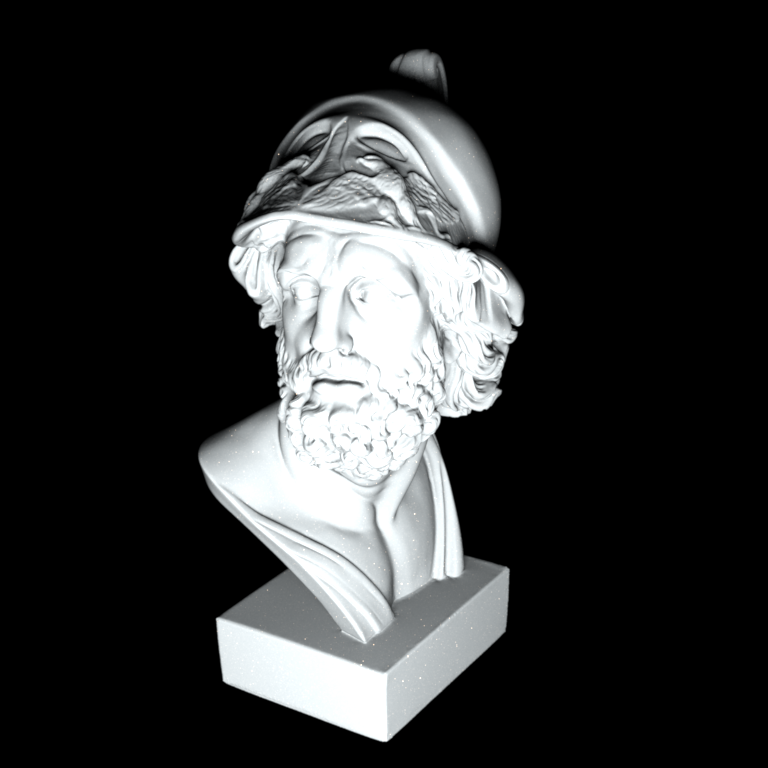
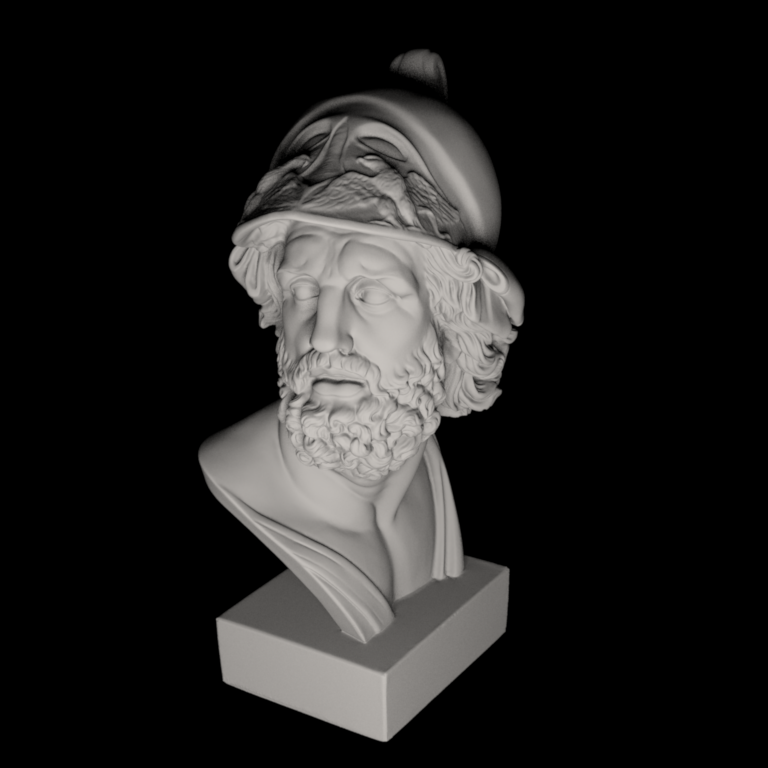
Completed point sampling scheme for sss with exponential decay. Missing Sr sampling instead of exp decay

Changed region(s): [[0.25, 0.0625, 0.6875, 0.9688]]

diff --git a/src/subsurface.cpp b/src/subsurface.cpp
@@ -117,37 +117,61 @@ public:
     {
         Color3f sigmaT = sigmaA + sigmaS;
 
+        // Select random frame
+        Vector3f vx, vy, vz;
+        float rnd = sampler->next1D();
+        if (rnd < 0.5f) 
+        {
+            vx = bRec.fri.s;
+            vy = bRec.fri.t;
+            vz = bRec.fri.n;
+            rnd *= 2; // Adjust random sample
+        } 
+        else if (rnd < 0.75f) 
+        {
+            vx = bRec.fri.t;
+            vy = bRec.fri.n;
+            vz = bRec.fri.s;
+            rnd = (rnd - 0.5f) * 4; // Adjust random sample
+        } 
+        else 
+        {
+            vx = bRec.fri.n;
+            vy = bRec.fri.s;
+            vz = bRec.fri.t;
+            rnd = (rnd - 0.75f) * 4; // Adjust random sample
+        }
+
         // Select random channel
-        int channel =  sampler->next1D() * 3;
+        int channel =  rnd * 3;
         float sigma = sigmaT[channel];
-        float channelPdf = 1.0f / 3.0f;
+        rnd = rnd * 3.0f - channel; // Adjust random sample
 
         // Select sphere radius
-        float rMax = Warp::squareToSrDecay(sampler->next1D(), sigma);
-        float rMin = 1.0f/sigma;
+        float rMax = Warp::squareToSrDecay(0.999f, sigma);
         float r = Warp::squareToSrDecay(sampler->next1D(), sigma);
 
+        if (r > rMax)
+            return false;
+
         // Clamp to account for highly curved surfaces, change to meters
-        rMax = Math::max(rMax, rMin) / 1000.0f;
-        r = Math::clamp(r, rMin, rMax) / 1000.0f;
+        rMax /= 1000.0f;
+        r /= 1000.0f;
 
         // Sample a point on the disk
-        Point2f diskSample = Warp::SrToDisk(sampler->next1D(), r);
-        float lhalf = Math::sqrt(Math::pow2(rMax) - Math::pow2(r)); // * 2 / 2
+        float l = 2.0f * Math::sqrt(Math::pow2(rMax) - Math::pow2(r));
+        float th = 2 * M_PI * sampler->next1D();
 
         // Project to sphere
-        Point3f base = Point3f (diskSample.x(), diskSample.y(), lhalf);
-        Point3f target = Point3f (diskSample.x(), diskSample.y(), -lhalf);
-
-        // Sphere to world
-        Point3f w_base = bRec.fri.ptoWorld(base);
-        Point3f w_target = bRec.fri.ptoWorld(target);
+        Point3f w_center = bRec.pi + r * (vx*std::cos(th) + vy*std::sin(th));
+        Point3f w_base = w_center - l*vz*0.5f;
+        Point3f w_target = w_base + l*vz;
  
 
         /************ Project point to shape ****************/
 
         Vector3f d = (w_target - w_base).normalized();
-        Ray3f ray = Ray3f(w_base, d, 0.0f, lhalf*2.0f);
+        Ray3f ray = Ray3f(w_base, d, 0.0f, l);
 
         Intersection its;
         bool intersected = bRec.scene->rayIntersect(ray, bRec.mesh, its);
@@ -162,15 +186,38 @@ public:
 
         /*********************** Pdf *************************/
 
-        float rMaxPdf = Warp::squareToSrDecayPdf(rMax*1000, sigma);
-        float rPdf = Warp::squareToSrDecayPdf(r*1000, sigma);
-        float diskPdf = Warp::SrToDiskPdf(diskSample);
-
-        pdf = rMaxPdf * rPdf * diskPdf * channelPdf;
+        pdf = pointPdf(bRec);
 
         return true;
     }
 
+    float pointPdf(BSDFQueryRecord &bRec) const
+    {
+        Color3f sigmaT = sigmaA + sigmaS;
+
+        Vector3f d = bRec.po - bRec.pi;
+        Vector3f l_d(Math::dot(bRec.fri.s, d), Math::dot(bRec.fri.t, d), Math::dot(bRec.fri.n, d));
+        Normal3f l_n(Math::dot(bRec.fri.s, bRec.fro.n), Math::dot(bRec.fri.t, bRec.fro.n), Math::dot(bRec.fri.n, bRec.fro.n));
+
+        float rProjected[3] = { std::sqrt(l_d.y()*l_d.y() + l_d.z()*l_d.z()),
+                                std::sqrt(l_d.z()*l_d.z() + l_d.x()*l_d.x()),
+                                std::sqrt(l_d.x()*l_d.x() + l_d.y()*l_d.y()) };
+
+        float pdf = 0, axisPdf[3] = { .25f, .25f, .5f };
+        float chProb = 1 / 3.0f; // 3 channels
+
+        for (int axis = 0; axis < 3; axis++)
+        {
+            for (int ch = 0; ch < 3; ch++)
+            {
+                pdf += Warp::squareToSrDecayPdf(rProjected[axis], sigmaT[ch]) 
+                        * std::abs(l_n[axis]) 
+                        * chProb * axisPdf[axis];
+            }
+        }
+        
+        return pdf;
+    }
 
     Color3f sample(BSDFQueryRecord &bRec, Sampler *sampler) const
     {
@@ -234,8 +281,7 @@ public:
         float r = (bRec.po - bRec.pi).norm() * 1000.0f;
         float eta = etaT;
 
-        Color3f Rd = betterAlternative(r);
-        //std::cout << Rd.toString() + ", " + std::to_string(r) << std::endl;
+        Color3f Rd = dipoleDiffusionAproximation(r);
 
         Vector3f w_wi = bRec.fro.vtoWorld(bRec.wi);
         float cosWi = Math::absCos(w_wi, bRec.fri.n);

diff --git a/src/whitted.cpp b/src/whitted.cpp
@@ -82,20 +82,28 @@ public:
                 const Ray3f &ray,
                 Intersection &its) const
     {
-        PathState state;
-        state.intersection = its;
-        state.ray = ray;
+        int nSamples = 32;
+        Color3f radiance = Color3f(0.0f);
 
-        float pointPdf; 
-        const BSDF *bsdf = state.intersection.mesh->getBSDF();
-        
-        auto query = Pth::initBSDFQuery(scene, state);
-        bool valid = bsdf->samplePoint(query, sampler, pointPdf);
+        for (int i = 0; i < nSamples ; i++)
+        {
+            PathState state;
+            state.intersection = its;
+            state.ray = ray;
 
-        if (!valid)
-            return Color3f(0.0f);
+            float pointPdf; 
+            const BSDF *bsdf = state.intersection.mesh->getBSDF();
+            
+            auto query = Pth::initBSDFQuery(scene, state);
+            bool valid = bsdf->samplePoint(query, sampler, pointPdf);
 
-        return Pth::nextEventEstimation(scene, sampler, state, query) / pointPdf;
+            if (!valid)
+                continue;
+
+            radiance += Pth::nextEventEstimation(scene, sampler, state, query) / pointPdf;
+        }
+
+        return radiance / nSamples;
     }
 
     Color3f Li (const Scene *scene, Sampler *sampler,
